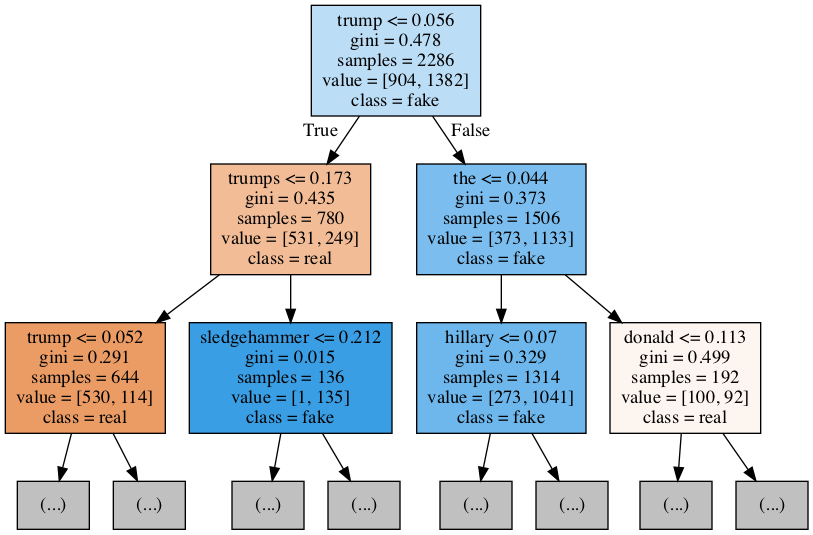
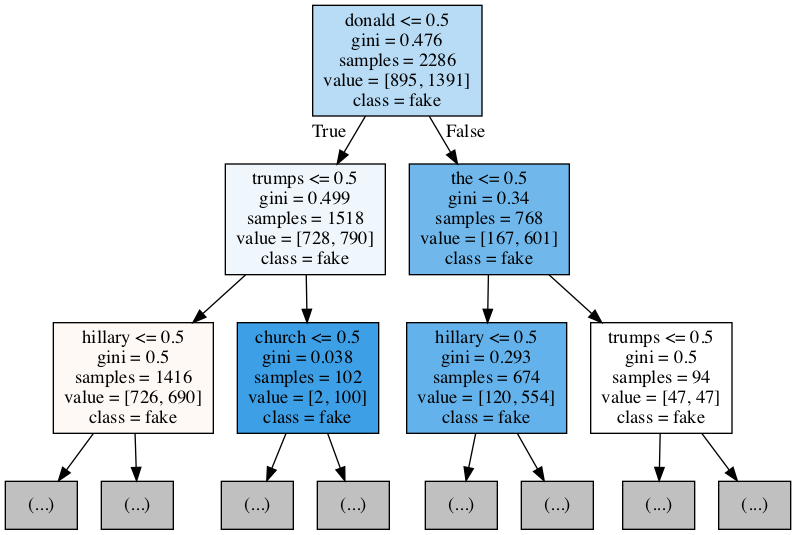
implemented compute_information_gain

diff --git a/hw1_code.py b/hw1_code.py
@@ -1,39 +1,38 @@
+from itertools import count
+from typing import List, Optional
+from numpy.lib.function_base import select
+from numpy.lib.type_check import real
 from sklearn.tree import DecisionTreeClassifier, export_graphviz
-from sklearn.feature_extraction.text import TfidfVectorizer
+from sklearn.feature_extraction.text import CountVectorizer
 from sklearn.model_selection import train_test_split
 import graphviz
+import math
 
 REAL = "real"
 FAKE = "fake"
 
+def read_file(file_name: str) -> List[str]:
+    file = open(file_name, "r")
+    data = [line.strip() for line in file]
+    file.close()
+    return data
+
 def load_data():
-    headlines = []
-    labels = []
-    # append all headlines into X, and then append its appropriate label to Y
-    file = open("clean_real.txt", "r")
-    headlines.extend([line.strip() for line in file])
-    labels.extend([REAL] * len(headlines))
-    file.close()
-
-    prev_num_headlines = len(headlines)
-
-    file = open("clean_fake.txt", "r")
-    headlines.extend([line.strip() for line in file])
-    labels.extend([FAKE] * (len(headlines) - prev_num_headlines))
-    file.close()
+    headlines = read_file("clean_real.txt").copy()
+    labels = [REAL] * len(headlines)
+    headlines.extend(read_file("clean_fake.txt").copy())
+    labels.extend([FAKE] * (len(headlines) - len(labels)))
 
     # now we want to split the data into training, test, and validation
-    h_train, h_test, y_train, y_test = train_test_split(headlines, labels, train_size=0.7)
-    h_test, h_validation, y_test, y_validation = train_test_split(h_test, y_test, train_size=0.5)
+    x_train, x_test, y_train, y_test = train_test_split(headlines, labels, train_size=0.7)
+    x_test, x_validation, y_test, y_validation = train_test_split(x_test, y_test, train_size=0.5)
 
     # now vectorize the data
-    vectorizer = TfidfVectorizer()
-    h_train_vectorized = vectorizer.fit_transform(h_train)
-    feature_names = vectorizer.get_feature_names()
-    h_test_vectorized = vectorizer.transform(h_test)
-    h_val_vectorized = vectorizer.transform(h_validation)
+    vectorizer = CountVectorizer()
+    x_train_vectorized = vectorizer.fit_transform(x_train)
+    x_val_vectorized = vectorizer.transform(x_validation)
 
-    return h_train_vectorized, h_test_vectorized, h_val_vectorized, y_train, y_test, y_validation, feature_names
+    return x_train_vectorized, x_val_vectorized, y_train, y_validation, vectorizer
 
 def accuracy_calculator(y_true, y_pred) -> float:
     '''
@@ -56,87 +55,87 @@ def accuracy_calculator(y_true, y_pred) -> float:
     return score/total
 
 
-def select_data():
-    h_train, h_test, h_val, y_train, y_test, y_val, feature_names = load_data()
+def select_data() -> DecisionTreeClassifier:
+    x_train, x_val, y_train, y_val, vectorizer = load_data()
 
     tree_to_accuracy = {}   # maps decision trees to their accuracy scores
 
     # max_depth = 3, split_criteria = information gain
     t1 = DecisionTreeClassifier(criterion="entropy", max_depth=3)
-    t1 = t1.fit(h_train, y_train)
-    labels_predicted = t1.predict(h_val)
+    t1 = t1.fit(x_train, y_train)
+    labels_predicted = t1.predict(x_val)
     accuracy = accuracy_calculator(y_val, labels_predicted)
     print("Accuracy of T1:", accuracy)
     tree_to_accuracy[t1] = accuracy
 
     # max_depth = 3, split criteria = gini
     t2 = DecisionTreeClassifier(criterion="gini", max_depth=3)
-    t2 = t2.fit(h_train, y_train)
-    labels_predicted = t2.predict(h_val)
+    t2 = t2.fit(x_train, y_train)
+    labels_predicted = t2.predict(x_val)
     accuracy = accuracy_calculator(y_val, labels_predicted)
     print("Accuracy of T2:", accuracy)
     tree_to_accuracy[t2] = accuracy
 
     # max depth = 5, split criteria = entropy
     t3 = DecisionTreeClassifier(criterion="entropy", max_depth=5)
-    t3 = t3.fit(h_train, y_train)
-    labels_predicted = t3.predict(h_val)
+    t3 = t3.fit(x_train, y_train)
+    labels_predicted = t3.predict(x_val)
     accuracy = accuracy_calculator(y_val, labels_predicted)
     print("Accuracy of T3:", accuracy)
     tree_to_accuracy[t3] = accuracy
 
     # max depth = 5, split criteria = gini
     t4 = DecisionTreeClassifier(criterion="gini", max_depth=5)
-    t4 = t4.fit(h_train, y_train)
-    labels_predicted = t4.predict(h_val)
+    t4 = t4.fit(x_train, y_train)
+    labels_predicted = t4.predict(x_val)
     accuracy = accuracy_calculator(y_val, labels_predicted)
     print("Accuracy of T4:", accuracy)
     tree_to_accuracy[t4] = accuracy
 
     # max depth = 10, split criteria = entropy
     t5 = DecisionTreeClassifier(criterion="entropy", max_depth=10)
-    t5 = t5.fit(h_train, y_train)
-    labels_predicted = t5.predict(h_val)
+    t5 = t5.fit(x_train, y_train)
+    labels_predicted = t5.predict(x_val)
     accuracy = accuracy_calculator(y_val, labels_predicted)
     print("Accuracy of T5:", accuracy)
     tree_to_accuracy[t5] = accuracy
 
     # max depth = 10, split criteria = gini
     t6 = DecisionTreeClassifier(criterion="gini", max_depth=10)
-    t6 = t6.fit(h_train, y_train)
-    labels_predicted = t6.predict(h_val)
+    t6 = t6.fit(x_train, y_train)
+    labels_predicted = t6.predict(x_val)
     accuracy = accuracy_calculator(y_val, labels_predicted)
     print("Accuracy of T6:", accuracy)
     tree_to_accuracy[t6] = accuracy
 
     # max depth = 15, split criteria = entropy
     t7 = DecisionTreeClassifier(criterion="entropy", max_depth=15)
-    t7 = t7.fit(h_train, y_train)
-    labels_predicted = t7.predict(h_val)
+    t7 = t7.fit(x_train, y_train)
+    labels_predicted = t7.predict(x_val)
     accuracy = accuracy_calculator(y_val, labels_predicted)
     print("Accuracy of T7:", accuracy)
     tree_to_accuracy[t7] = accuracy
 
     # max depth = 15, split criteria = gini
     t8 = DecisionTreeClassifier(criterion="gini", max_depth=15)
-    t8 = t8.fit(h_train, y_train)
-    labels_predicted = t8.predict(h_val)
+    t8 = t8.fit(x_train, y_train)
+    labels_predicted = t8.predict(x_val)
     accuracy = accuracy_calculator(y_val, labels_predicted)
     print("Accuracy of T8:", accuracy)
     tree_to_accuracy[t8] = accuracy
 
     # max depth = 20, split criteria = entropy
     t9 = DecisionTreeClassifier(criterion="entropy", max_depth=20)
-    t9 = t9.fit(h_train, y_train)
-    labels_predicted = t9.predict(h_val)
+    t9 = t9.fit(x_train, y_train)
+    labels_predicted = t9.predict(x_val)
     accuracy = accuracy_calculator(y_val, labels_predicted)
     print("Accuracy of T9:", accuracy)
     tree_to_accuracy[t9] = accuracy
 
     # max depth = 20, split criteria = gini
     t10 = DecisionTreeClassifier(criterion="gini", max_depth=20)
-    t10 = t10.fit(h_train, y_train)
-    labels_predicted = t10.predict(h_val)
+    t10 = t10.fit(x_train, y_train)
+    labels_predicted = t10.predict(x_val)
     accuracy = accuracy_calculator(y_val, labels_predicted)
     print("Accuracy of T10:", accuracy)
     tree_to_accuracy[t10] = accuracy
@@ -147,7 +146,7 @@ def select_data():
     dot_data = export_graphviz(
         decision_tree=best_tree, 
         max_depth=2, 
-        feature_names=feature_names, 
+        feature_names=vectorizer.get_feature_names(), 
         class_names=y_train, 
         filled=True
     )
@@ -155,10 +154,29 @@ def select_data():
     graph = graphviz.Source(dot_data, format="png")
     graph.render("decision_tree_graphivz")
 
-    return best_tree
+    return best_tree, vectorizer
 
-    
+def compute_information_gain(id: int, tree: DecisionTreeClassifier, vectorizer: CountVectorizer):
+    root_entropy = tree.tree_.impurity[id]
+    left = tree.tree_.children_left[id]
+    right = tree.tree_.children_right[id]
+    left_entropy = tree.tree_.impurity[left]
+    right_entropy = tree.tree_.impurity[right]
 
+    left_split = tree.tree_.n_node_samples[left] / tree.tree_.n_node_samples[id]
+    right_split = tree.tree_.n_node_samples[right] / tree.tree_.n_node_samples[id]
+
+    info_gain = root_entropy - (left_split * left_entropy + right_split * right_entropy)
+
+    features_to_encoding = vectorizer.vocabulary_
+    encoding_to_features = {v: k for k, v in features_to_encoding.items()}
+
+    print("The information gain of feature: '{}' is {}".format(encoding_to_features[tree.tree_.feature[id]], info_gain))
+
+    return info_gain, left, right
 
 if __name__ == "__main__":
-    select_data()
+    tree, vectorizer = select_data()
+    info_gain, left, right = compute_information_gain(id=0, tree=tree, vectorizer=vectorizer)
+    info_gain, left2, right2 = compute_information_gain(id=left, tree=tree, vectorizer=vectorizer)
+    info_gain, left3, right3 = compute_information_gain(id=right, tree=tree, vectorizer=vectorizer)
